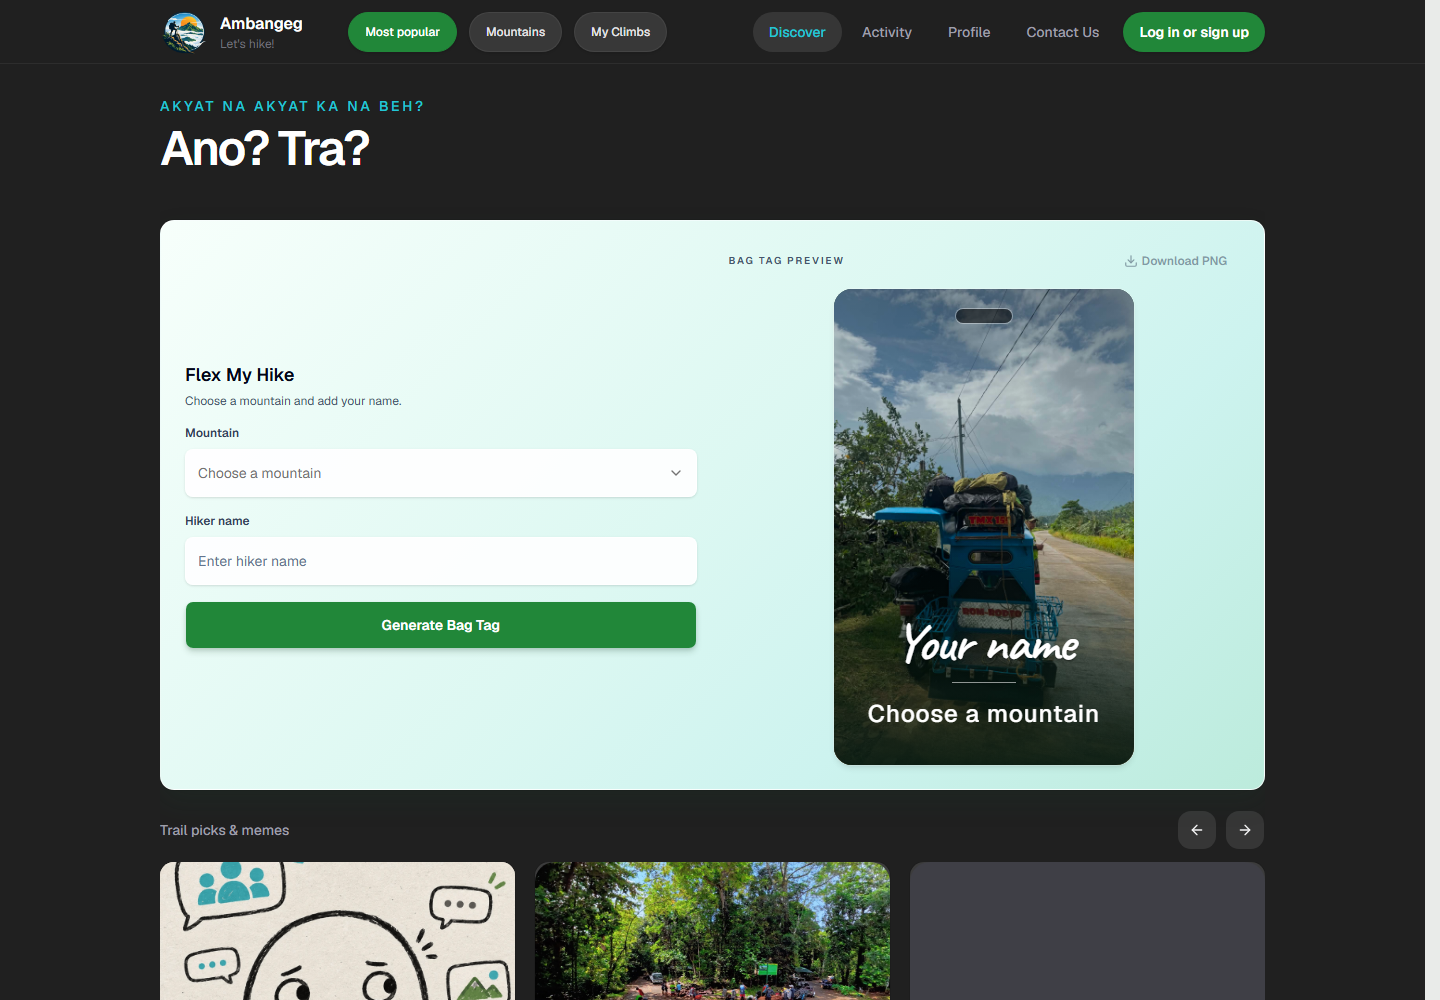
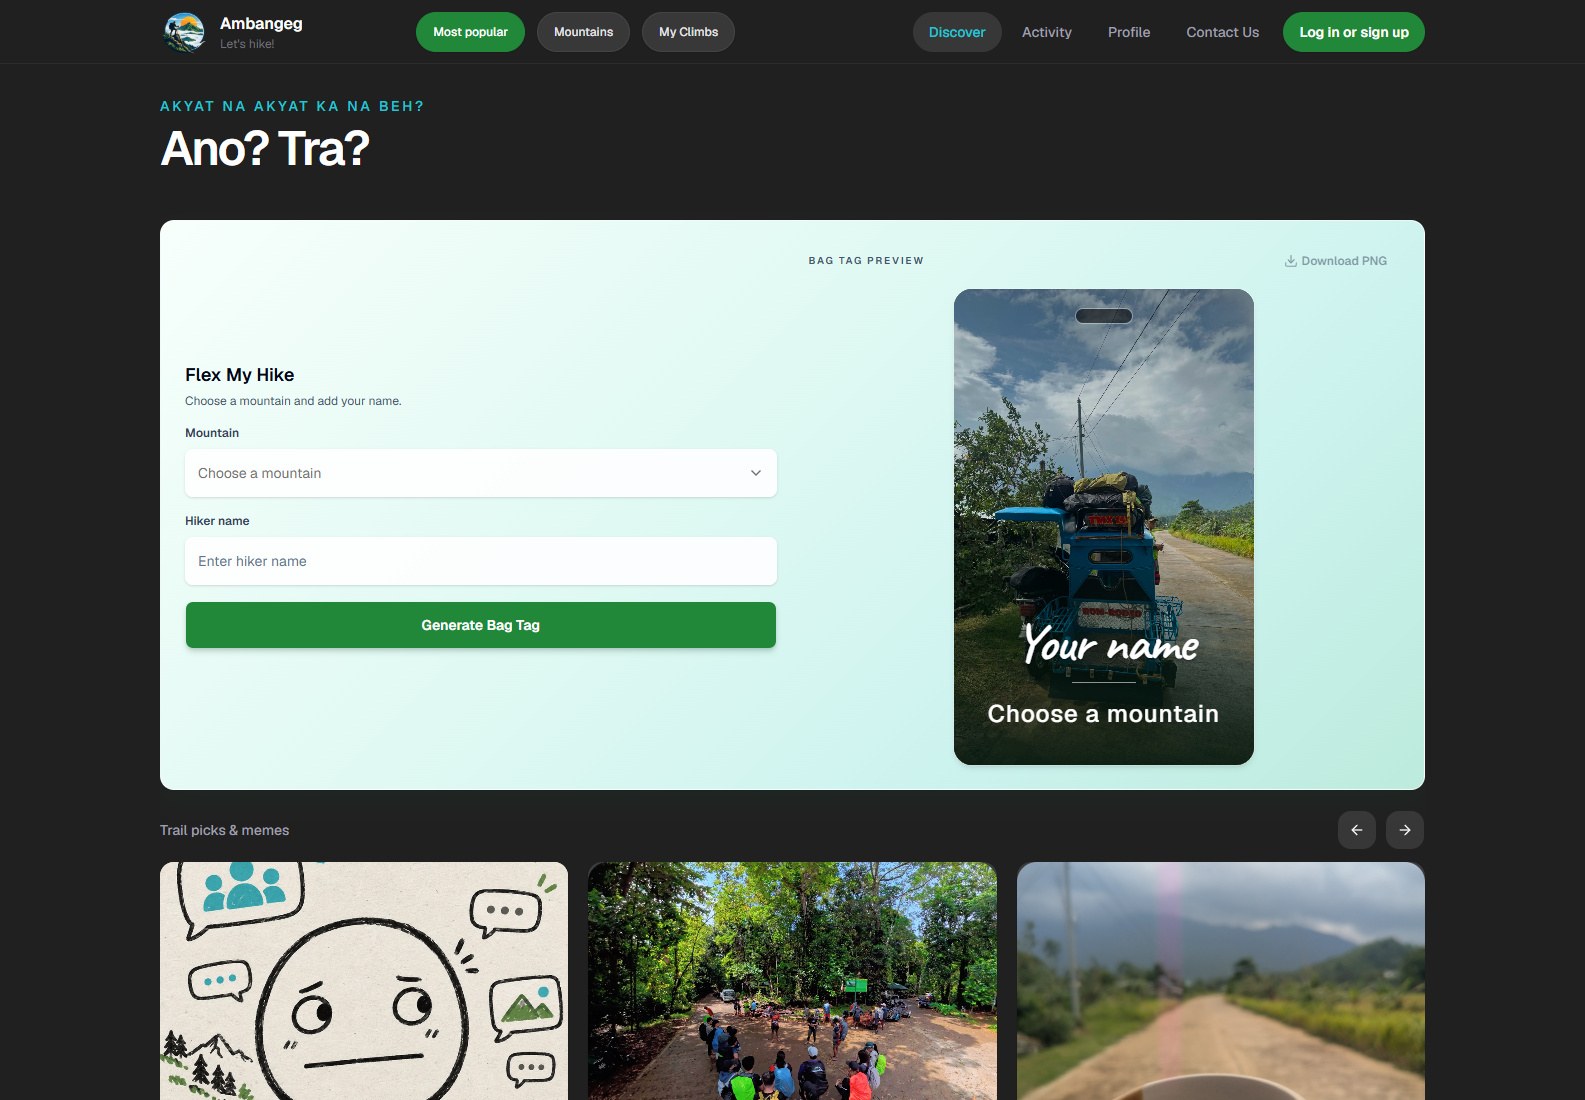
docs: refresh app overview and responsive screenshots
Describe the mountain explorer and static guides in both READMEs. Refresh homepage and My Climbs previews, and add verified desktop/mobile screenshots for Mountains and the Pulag guide.

diff --git a/README.md b/README.md
@@ -1,6 +1,8 @@
 # Ambangeg
 
-Ambangeg is a responsive hiking discovery experience for finding scenic trails and planning the next outdoor trip. It pairs a focused dark interface with real trail photography, category browsing, personalized bag-tag creation, and expanded trip-detail views.
+Ambangeg is a responsive Philippine hiking discovery app. Explore mountains on an interactive map, compare trails and difficulty, read mountain guides, create personalized bag tags, and keep a gallery of your climbs.
+
+The Mountains explorer connects map pins to mountain cards: selecting either focuses the map and highlights the matching mountain. Desktop shows the map and list side by side; mobile uses a collapsible bottom sheet that keeps the selected peak visible above the list.
 
 ## Preview
 
@@ -12,7 +14,37 @@ The home screen keeps the full-width **Flex My Hike** creator above the trail ca
 
 ### Mobile
 
-<img src="docs/screenshots/mobile-home-flex-contained.png" alt="Ambangeg mobile homepage with the Flex My Hike card fully contained" width="390" />
+<img src="docs/screenshots/mobile-home-flex-contained.png" alt="Ambangeg mobile homepage with the Flex My Hike creator" width="390" />
+
+### Mountains
+
+Browse the mountain catalogue by climbing area, search terms and difficulty. Pins and cards share selection, with smooth camera movement, a subtle blue card highlight and a separate **View mountain guide** link. The reset button shows zoom steps relative to the country view.
+
+#### Desktop
+
+![Ambangeg desktop Mountains explorer with Mount Pulag selected in the map and list](docs/screenshots/desktop-mountains.png)
+
+#### Mobile
+
+<img src="docs/screenshots/mobile-mountains.png" alt="Ambangeg mobile Mountains explorer with Mount Pulag visible above the bottom sheet and its card highlighted" width="390" />
+
+### Mountain guides
+
+The first dedicated guides cover **Mount Pulag**, **Mount Apo** and **Mount Guiting-Guiting**. Each includes route comparisons, access planning, preparation advice, dated source references and related guides. Current permits, fees and opening status should be confirmed with the park or local office.
+
+| Mountain | Guide URL |
+| --- | --- |
+| Mount Pulag | `/mountains/mount-pulag/` |
+| Mount Apo | `/mountains/mount-apo/` |
+| Mount Guiting-Guiting | `/mountains/mount-guiting-guiting/` |
+
+#### Desktop
+
+![Ambangeg desktop Mount Pulag hiking guide with routes, preparation and source links](docs/screenshots/desktop-pulag-guide.png)
+
+#### Mobile
+
+<img src="docs/screenshots/mobile-pulag-guide.png" alt="Ambangeg mobile Mount Pulag hiking guide" width="390" />
 
 ### My Climbs
 
@@ -29,6 +61,12 @@ The My Climbs collection keeps up to three pinned mountains at the front of the 
 ## Features
 
 - Responsive layouts for desktop and mobile
+- Interactive Philippine mountain map with climbing areas and labeled peak pins
+- Search and difficulty filters for the mountain directory
+- Synchronized map and card selection with smooth zoom and scrolling
+- Collapsible mobile mountain list over the map
+- Static hiking guides for Pulag, Apo and Guiting-Guiting
+- Per-guide titles, descriptions, canonical URLs and breadcrumb structured data
 - Personalized mountain bag tags with a downloadable PNG
 - Browseable trail cards and category tabs
 - Real hiking photography with proportional image cropping
@@ -45,6 +83,15 @@ The My Climbs collection keeps up to three pinned mountains at the front of the 
 - [Tailwind CSS](https://tailwindcss.com/)
 - [Base UI](https://base-ui.com/)
 - [Lucide](https://lucide.dev/)
+- [MapLibre GL JS](https://maplibre.org/)
+
+The frontend exports static HTML with Next.js. Authentication uses Amazon Cognito; the contact form uses API Gateway, Lambda and SES with Cloudflare Turnstile. Hosting and service setup are documented in [frontend/README.md](frontend/README.md).
+
+## Content
+
+Mountain profiles live in `frontend/data/mountains.ts`, map coordinates in `frontend/data/map-mountains.ts`, and published guide content in `frontend/data/mountain-guides.ts`. Guide pages are generated at build time from the published guide list; adding a profile alone does not publish a guide. Review sources and update the guide’s review date when changing content.
+
+Screenshots show the current static export at desktop and mobile sizes. Map imagery is supplied by OpenFreeMap with OpenStreetMap data and attribution displayed in the app.
 
 ## Run locally
 

diff --git a/frontend/README.md b/frontend/README.md
@@ -2,6 +2,18 @@
 
 This is a statically exported Next.js application. Authentication stays on AWS through Amazon Cognito; Google is used only as the federated identity provider.
 
+The app includes an interactive mountain directory, a mobile map/list overlay, hiking guides for Pulag, Apo and Guiting-Guiting, personalized bag tags and a My Climbs gallery. Desktop and mobile screenshots are in the [project README](../README.md).
+
+## Mountain guides
+
+Published guides are defined in `data/mountain-guides.ts` and rendered by `app/mountains/[slug]/page.tsx`. `generateStaticParams` exports only those guides, using profile facts from `data/mountains.ts`. Each page includes its own metadata, canonical URL, breadcrumb structured data and source references.
+
+- `/mountains/mount-pulag/`
+- `/mountains/mount-apo/`
+- `/mountains/mount-guiting-guiting/`
+
+The mountain directory links to these guides from its introduction, map results and prominent cards. Card selection continues to focus the map; the guide link opens the full page. Canonical guide URLs use `https://ambangeg.com`; update `siteUrl` in the guide page if the production domain changes.
+
 ## Google sign-in setup
 
 1. In Amazon Cognito, create a user pool and an app client **without a client secret** (this is a browser app).
